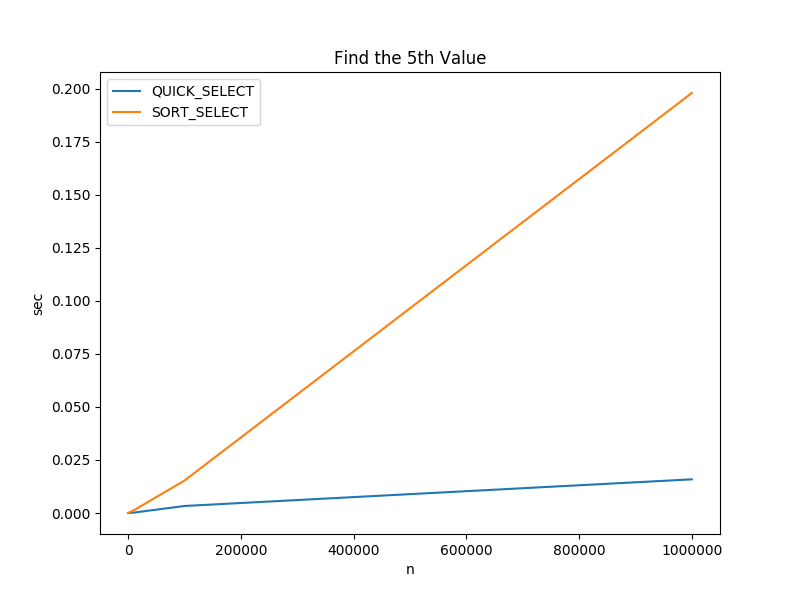
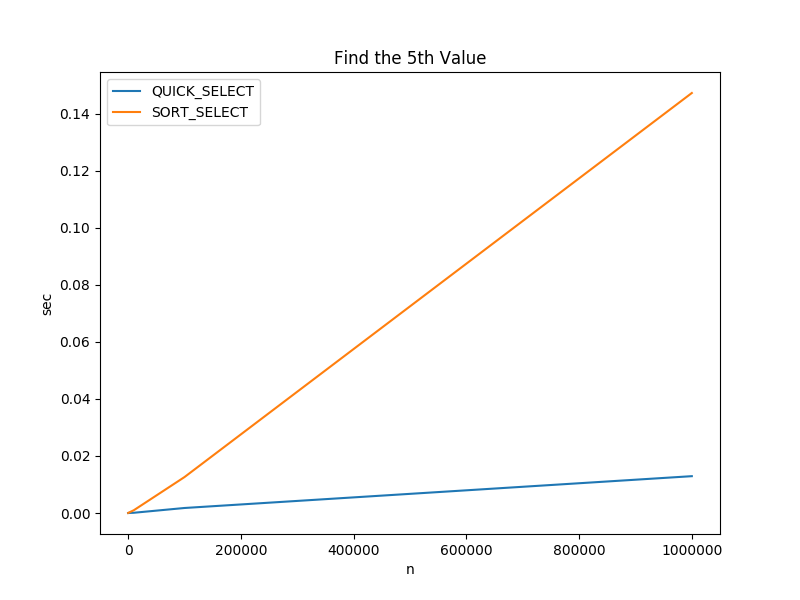
add median times to quick select

diff --git a/quick_select/c/compare_times.py b/quick_select/c/compare_times.py
@@ -68,6 +68,8 @@ def generate_md_table(ns, data):
 def get_title(nth):
     if nth == 1:
         return 'Find the Minimum Value'
+    if nth == -1:
+        return 'Find the Median Value'
     else:
         return 'Find the {}th Value'.format(nth)
 
@@ -86,7 +88,12 @@ def generate_chart(nth):
 
         data = []
         for n in TEST_FOR_Ns:
-            time = median_run_time(lambda: lib.select_time(n, nth, algo))
+            this_nth = nth
+
+            if nth == -1:
+                this_nth = n / 2
+
+            time = median_run_time(lambda: lib.select_time(n, this_nth, algo))
             data.append(time)
 
         plt.plot(TEST_FOR_Ns, data, label=algo.name)
@@ -117,3 +124,4 @@ def generate_chart(nth):
 if __name__ == "__main__":
     generate_chart(5)
     generate_chart(1)
+    generate_chart(-1)

diff --git a/quick_select/README.md b/quick_select/README.md
@@ -7,9 +7,21 @@ typical use is finding the n<sup>th</sup> highest score in an array.
 
 ## Actual Run Times
 
-The actual run times for finding the 5<sup>th</sup> highest value in an integer
-array using the C implementation of the quick select algorithm and C's qsort
-built in sorting function are shown below.
+The actual run times for finding the &ast;median and 5<sup>th</sup> highest
+value in an integer array using the C implementation of the quick select
+algorithm and C's qsort are shown below.
+
+![alt text](c/QUICK_SELECT--1.png "RANDOM ARRAY VALUES") 
+
+|ALGORITHM| n=100 |n=1000 |n=10000 |n=100000 |n=1000000 |
+--|--|--|--|--|--|
+|QUICK_SELECT |0.000006 sec|0.000026 sec|0.000196 sec|0.003316 sec|0.015870 sec|
+|SORT_SELECT |0.000008 sec|0.000159 sec|0.001267 sec|0.015303 sec|0.197968 sec|
+
+&ast; For the purposes of this project, median is defined as simply the
+n/2<sup>th</sup> element.  Technically, if the array is odd sized, it should be
+the average of the middle two elements. A somewhat pedantic point, but it may be
+important in some contexts.
 
 ![alt text](c/QUICK_SELECT-5.png "RANDOM ARRAY VALUES") 
 
